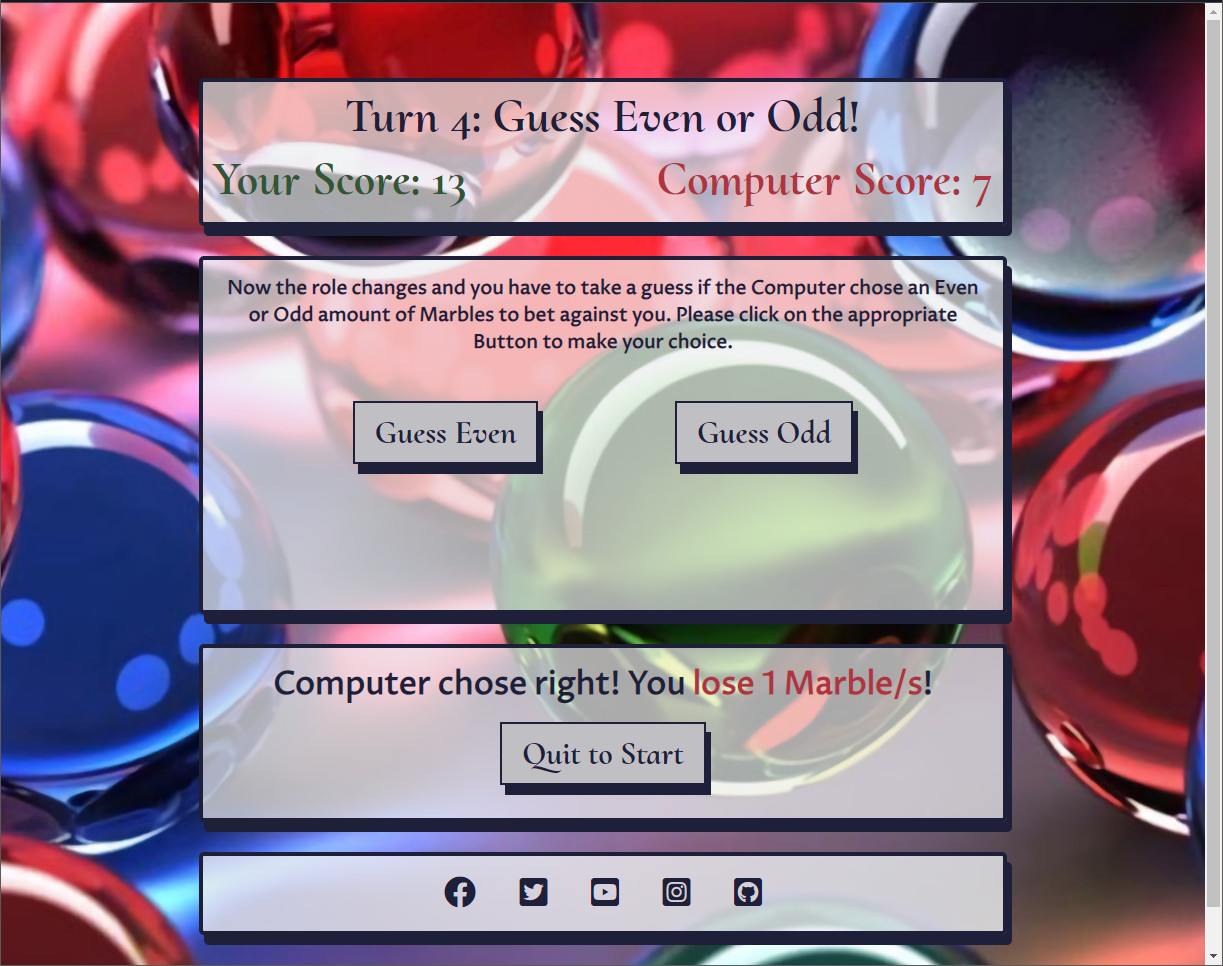
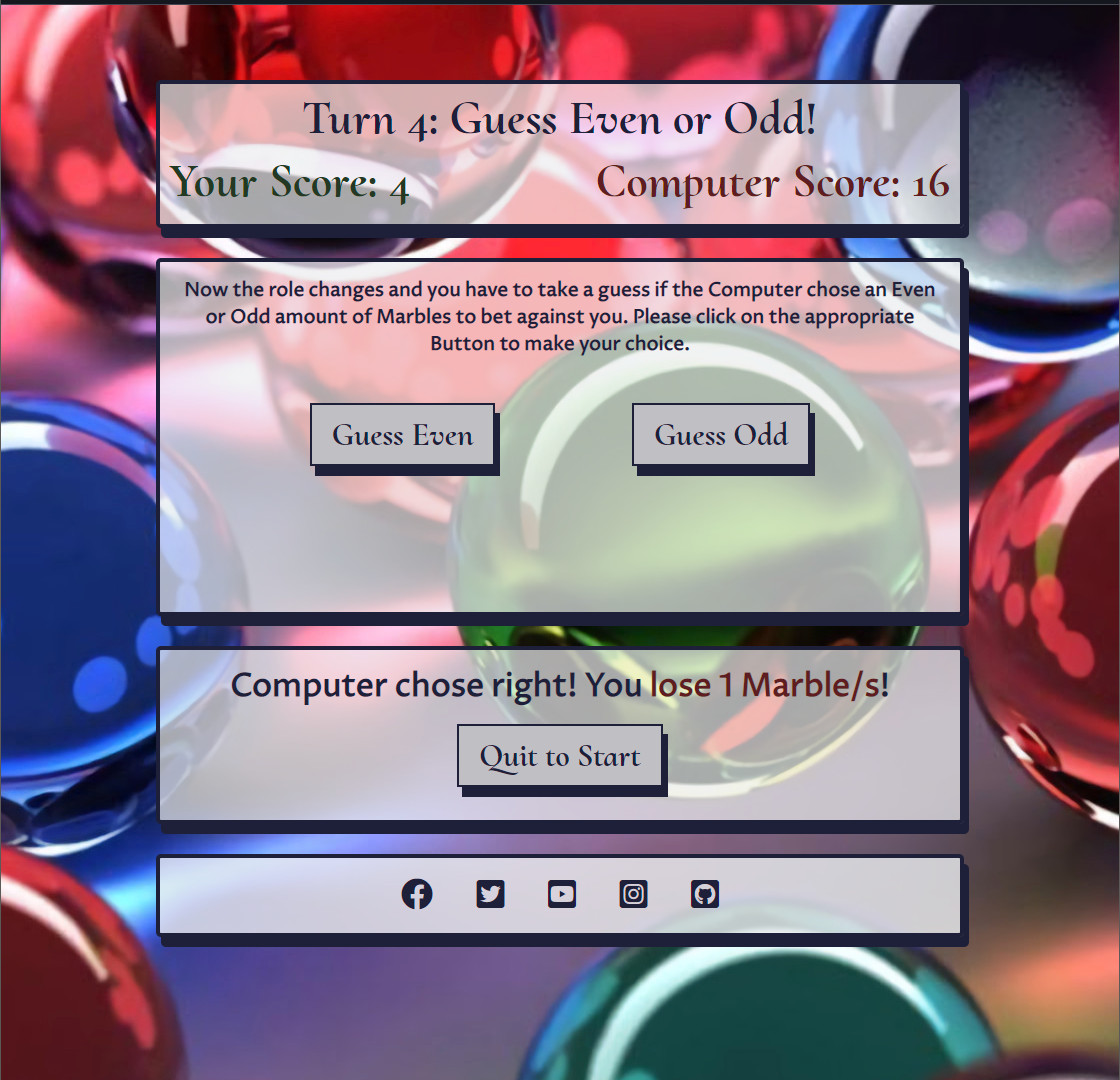
docs: Update readme with more testing, bugs and deployment

diff --git a/assets/css/style.css b/assets/css/style.css
@@ -212,7 +212,7 @@ hr {
     }
 
     #bottom-box p {
-        font-size: 150%;
+        font-size: 125%;
         padding: 20px 10px 0px;
     }
 

diff --git a/README.md b/README.md
@@ -148,3 +148,87 @@ This is a Minigame website about keeping your marbles and not losing it. It is d
 3. Resolution and Scaling were tested with Google Dev tools down to the lowest width device (Galaxy Fold, 280px) to ensure the website works flawlessly on all resolutions 280px and above.
 
 <br>
+
+### Google Lighthouse Testing
+
+1. Results
+- Desktop:
+  <h2><img src="./assets/images/lighthouse_result_desktop.jpg" alt="Results of Google Lighthouse test for Desktop devices"></h2>
+- Mobile:
+  <h2><img src="./assets/images/lighthouse_result_mobile.jpg" alt="Results of Google Lighthouse test for Mobile devices"></h2>
+
+2. There is an error reported in the console of Google Lighthouse: "Error with Permissions-Policy header: Unrecognized feature: 'interest-cohort'." This isn due to FLoC being disabled on github pages (used for collecting information for ads by google). It does however not change the function or displaying on the site.
+    <h2><img src="./assets/images/error_cohort.jpg" alt="Errors reported by Google Lighthouse on testing"></h2>
+
+<br>
+
+### Testing User Stories from User Experience (UX) Section
+
+-   #### First Time Visitor Goals
+
+    1. As a First Time Visitor, I want to easily understand the main purpose of the site and learn how the game works.
+
+        1. Upon entering the site, users are automatically greeted with a clean and easily readable Introduction text describing the game they are about to play. The Background sets the mood and style with its multicolored marbles.
+        2. The user has only one option to proceed. He/She can click the button to start the game and is then funneled through the gameplay loop which all are confirmed by the press of a button again. Once a Winner is decided, another button press will reload the page so the user can start over.
+
+    2. As a First Time Visitor, I want the game to be explained well and easily play through every part of it.
+
+        1. The Site is very linear and proceeds with button presses. At every step, there is a description of what the user has to do, so he always knows how the game is going to proceed and how he/she can win or may lose.
+        <br><br>
+-   #### Returning Visitor Goals
+
+    1. As a Returning Visitor, I want to quickly get into a game and play it in my break time or while I wait for something IRL.
+
+        1. After the site is loaded, the user is only 2 button presses away from starting a game. He/She can also modify the game if there is a wish for a bigger challenge or longer game.
+
+<br>
+
+### Further Testing
+
+-   The Website was tested on Google Chrome, Internet Explorer, Microsoft Edge, Firefox, Opera GX and Safari browsers.
+-   The Website was viewed on a variety of devices such as Desktop, Laptop, iPad and different Android Phones.
+-   Friends were asked to review the site to point out any bugs and/or user experience issues.
+
+<br>
+
+### Known Bugs
+
+-   On Desktop Devices with a very high resolution (above 2600px wide, e.g. a full screen window on a 4k or Ultra Wide Display), the Background Image is no longer covering 100%.
+-   On Desktop Devices with a very low resolution (below 280px wide), the consistency of the website can no longer be upheld. These kind of devices shouldn't be supported by modern operating systems anymore and should be extremely rare.
+
+<br>
+
+## Deployment
+
+### GitHub Pages
+
+The project was deployed to GitHub Pages using the following steps...
+
+1. Log in to GitHub and locate the [GitHub Repository](https://github.com/Mycrosys/Hachiko)
+2. At the top of the Repository (not top of page), locate the "Settings" Button on the menu.
+3. Scroll down the Settings page until you locate the "GitHub Pages" Section.
+4. Under "Source", click the drop down called "None" and select "Main Branch".
+5. The page will automatically refresh.
+6. Scroll back down through the page to locate the now published site [link](https://mycrosys.github.io/Hachiko/) in the "GitHub Pages" section.
+
+### Forking the GitHub Repository
+
+By forking the GitHub Repository we make a copy of the original repository on our GitHub account to view and/or make changes without affecting the original repository by using the following steps...
+
+1. Log in to GitHub and locate the [GitHub Repository](https://github.com/Mycrosys/Hachiko)
+2. At the top of the Repository (not top of page) just above the "Settings" Button on the menu, locate the "Fork" Button.
+3. You should now have a copy of the original repository in your GitHub account.
+
+### Making a Local Clone
+
+1. Log in to GitHub and locate the [GitHub Repository](https://github.com/Mycrosys/Hachiko)
+2. Under the repository name, click "Clone or download".
+3. To clone the repository using HTTPS, under "Clone with HTTPS", copy the link.
+4. Open Git Bash
+5. Change the current working directory to the location where you want the cloned directory to be made.
+6. Type `git clone`, and then paste the URL you copied in Step 3.
+7. Press Enter. Your local clone will be created.
+
+Click [Here](https://help.github.com/en/github/creating-cloning-and-archiving-repositories/cloning-a-repository#cloning-a-repository-to-github-desktop) to retrieve pictures for some of the buttons and more detailed explanations of the above process.
+
+<br>
